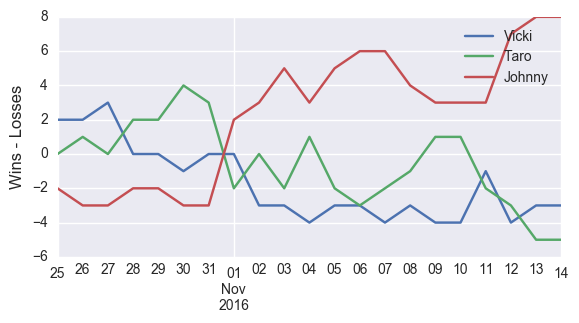
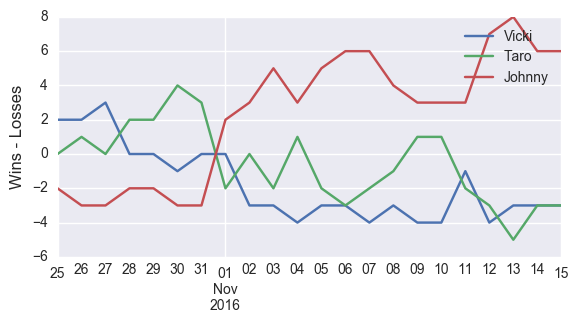
update 11/15

diff --git a/index.html b/index.html
@@ -35,7 +35,7 @@
 <a id="the-bet-is-on" class="anchor" href="#the-bet-is-on" aria-hidden="true"><span aria-hidden="true" class="octicon octicon-link"></span></a>The bet is on.</h1>
 
 <h1>
-<a id="current-winner-of-2016-17-season" class="anchor" href="#current-winner-of-2016-17-season" aria-hidden="true"><span aria-hidden="true" class="octicon octicon-link"></span></a>Current winner of 2016-17 Season (as of 11/14/2016):</h1>
+<a id="current-winner-of-2016-17-season" class="anchor" href="#current-winner-of-2016-17-season" aria-hidden="true"><span aria-hidden="true" class="octicon octicon-link"></span></a>Current winner of 2016-17 Season (as of 11/15/2016):</h1>
 
 <h2>
 <a id="none" class="anchor" href="#none" aria-hidden="true"><span aria-hidden="true" class="octicon octicon-link"></span></a><strong>Johnny</strong>
@@ -44,23 +44,23 @@
 <h2>
 <a id="johnny" class="anchor" href="#johnny" aria-hidden="true"><span aria-hidden="true" class="octicon octicon-link"></span></a>Johnny</h2>
 
-<p>Wins: 53<br>
-Losses: 45<br>
-Remaining wins available: 613</p>
+<p>Wins: 54<br>
+Losses: 48<br>
+Remaining wins available: 609</p>
 
 <h2>
 <a id="taro" class="anchor" href="#taro" aria-hidden="true"><span aria-hidden="true" class="octicon octicon-link"></span></a>Taro</h2>
 
-<p>Wins: 45<br>
-Losses: 50<br>
-Remaining wins available: 614</p>
+<p>Wins: 49<br>
+Losses: 52<br>
+Remaining wins available: 608</p>
 
 <h2>
 <a id="vicki" class="anchor" href="#vicki" aria-hidden="true"><span aria-hidden="true" class="octicon octicon-link"></span></a>Vicki</h2>
 
-<p>Wins: 46<br>
-Losses: 49<br>
-Remaining wins available: 616</p>
+<p>Wins: 49<br>
+Losses: 52<br>
+Remaining wins available: 610</p>
 
 <img src='pythoncode/win_percent.png' alt='Winning Percentage Over Time'>
 <h1>
